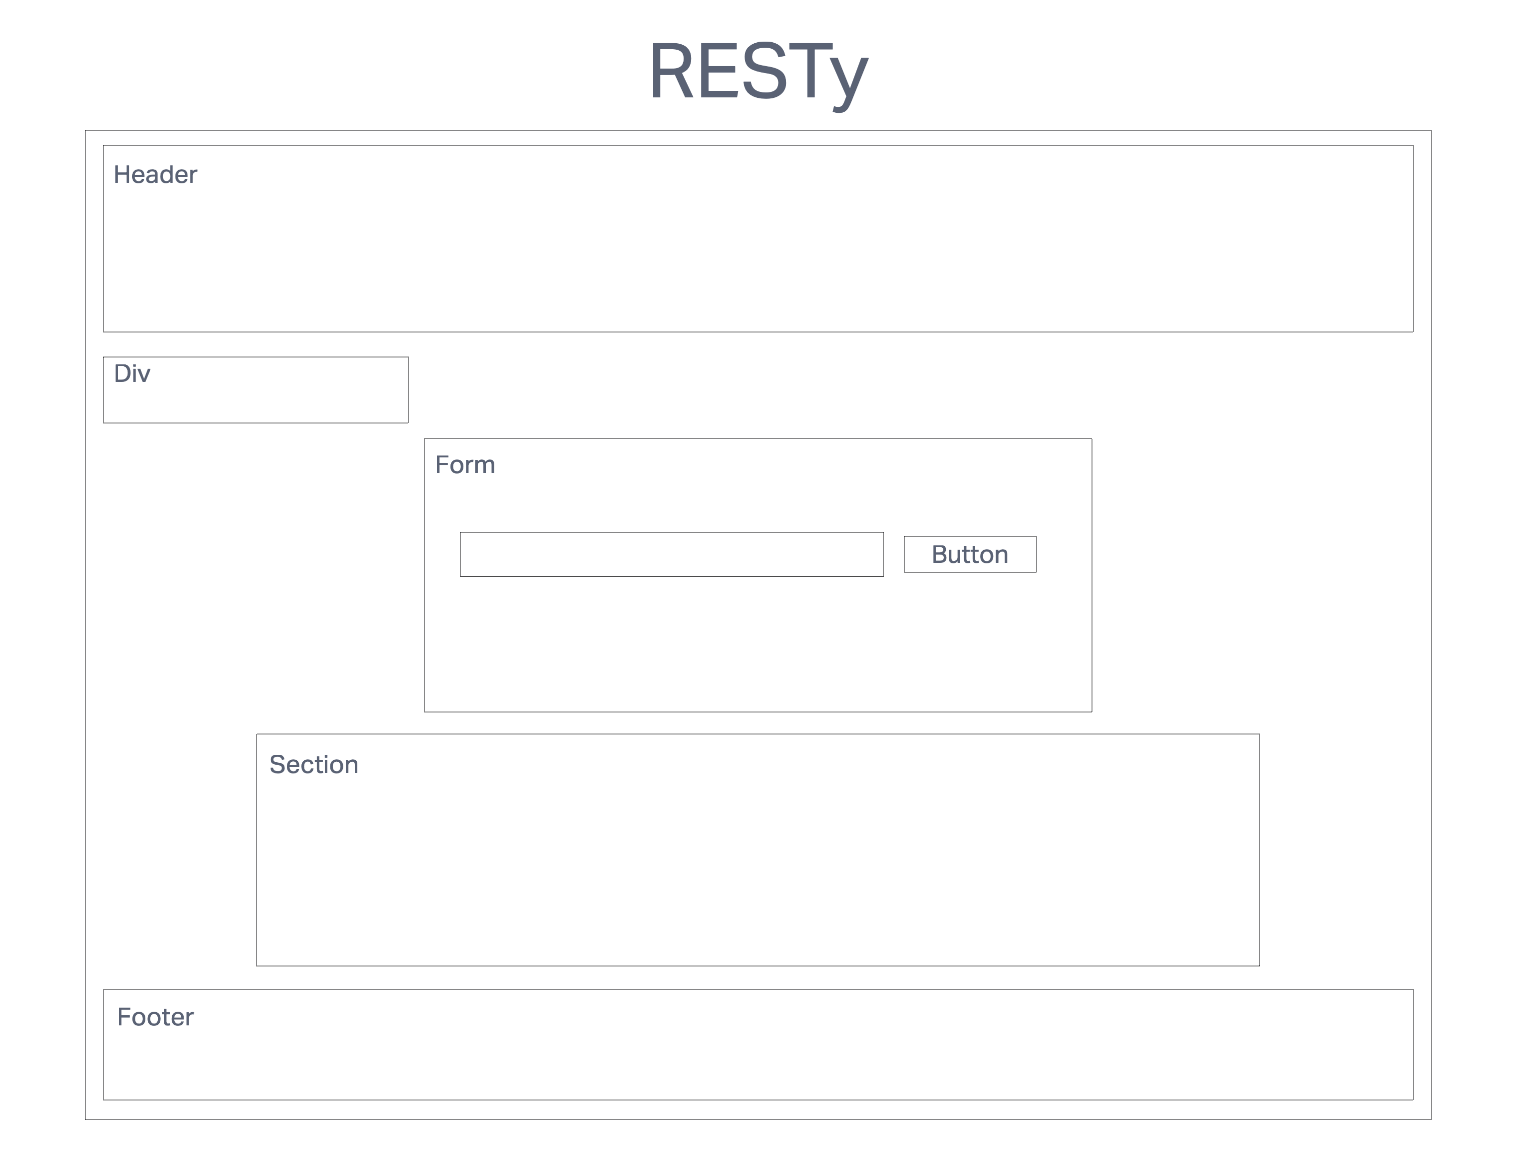
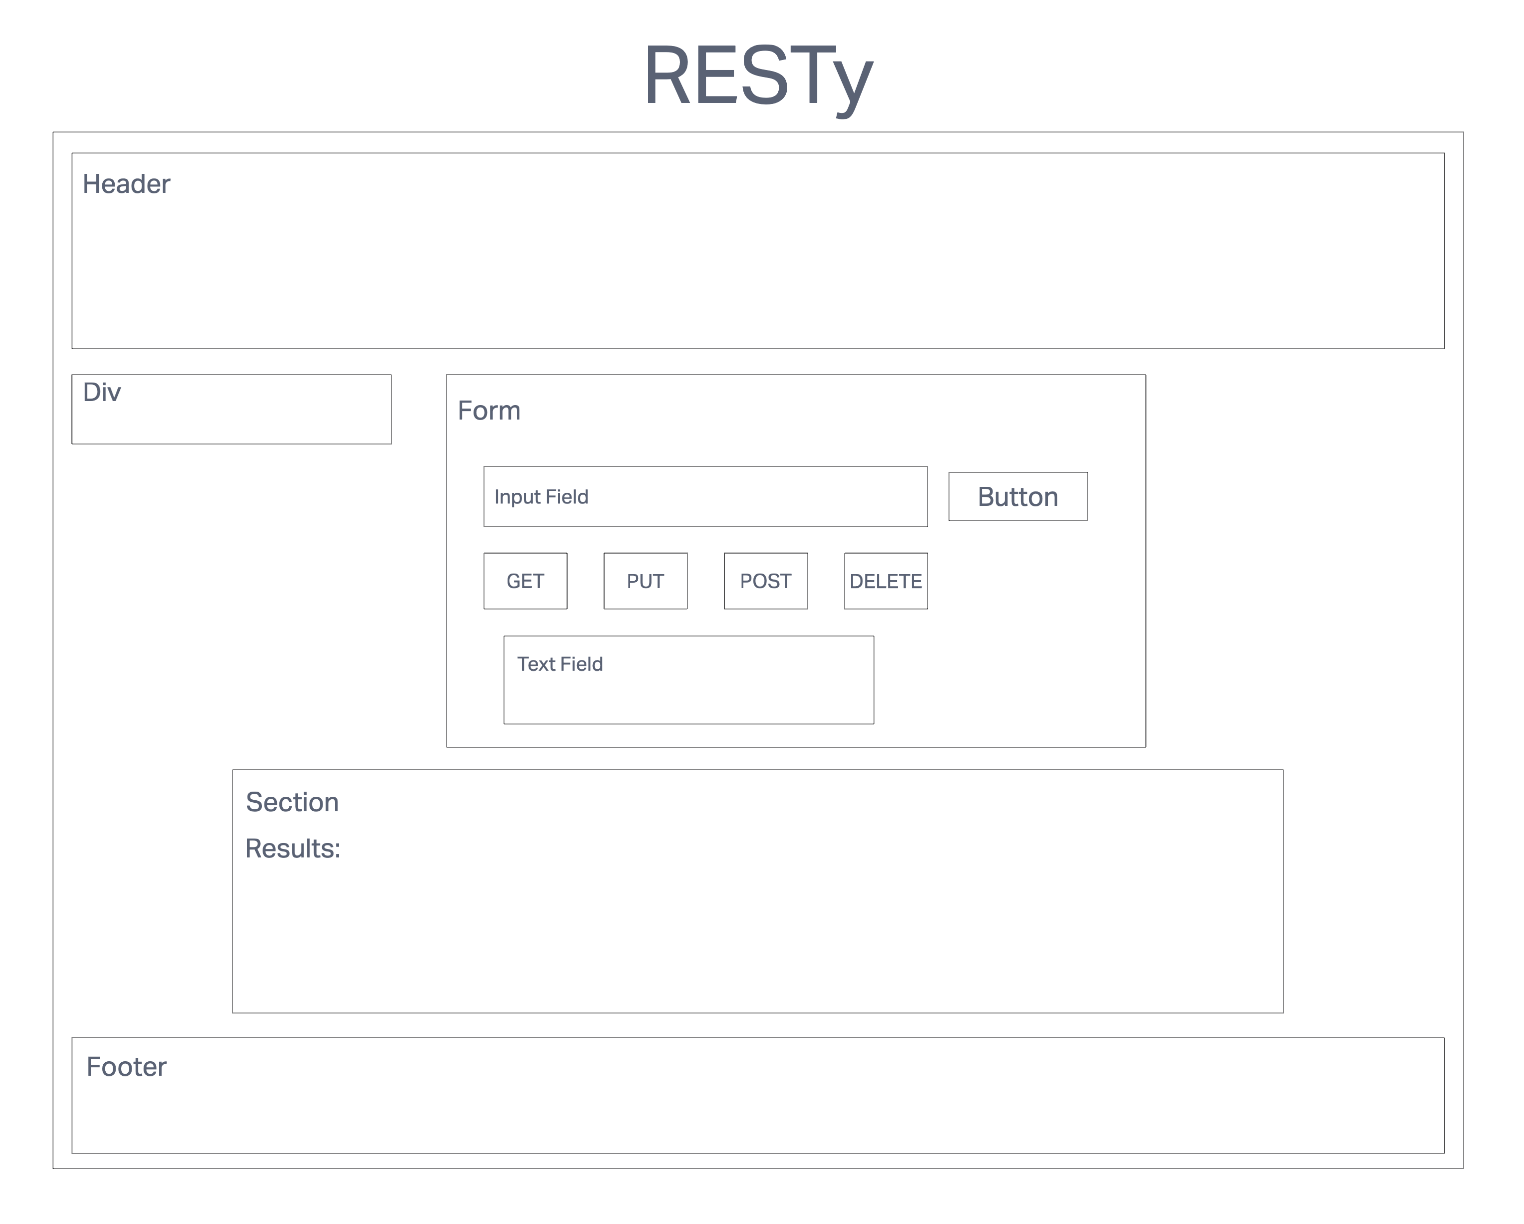
completed lab 18

diff --git a/src/app.js b/src/app.js
@@ -1,5 +1,6 @@
-import React, { useState } from 'react';
-
+import React, { useState, useEffect } from 'react';
+import axios from 'axios';
+//const axios = () => null;
 import './app.scss';
 
 // Let's talk about using index.js and some other name in the component folder
@@ -18,22 +19,31 @@ const App = () => {
     const data = {
       method: requestParams.method,
       url: requestParams.url,
-      count: 2,
-      results: [
-        {name: 'fake thing 1', url: 'http://fakethings.com/1'},
-        {name: 'fake thing 2', url: 'http://fakethings.com/2'},
-      ],
+      body: requestParams.body,
     };
     console.log(data);
     setRequestParams(requestParams);
     setData(data);
-  }
+  };
+
+  useEffect(() => {
+    console.log('something happened when mounted!');
+    async function apiCall() {
+      let results = await axios.get(requestParams.url);
+      console.log(results);
+      setData(results.data.results)
+    }
+    if(requestParams.url){
+      apiCall();
+    }
+  }, [requestParams]);
 
   return (
     <React.Fragment>
       <Header />
-      <div>Request Method: {requestParams.method}</div>
       <div>URL: {requestParams.url}</div>
+      <div>Request Method: {requestParams.method}</div>
+      <div>Request Body: {requestParams.body}</div>
       <Form handleApiCall={callApi} />
       <Results data={data} />
       <Footer />

diff --git a/src/components/form/index.js b/src/components/form/index.js
@@ -6,12 +6,14 @@ function Form(props) {
   const [isActive, setIsActive] = useState(false);
   const [method, setMethod] = useState('GET');
   const [url, setUrl] = useState('');
+  const [body, setBody] = useState('');
 
   let handleSubmit = e => {
     e.preventDefault();
     const formData = {
       method: method,
       url: url,
+      body: body,
     };
     console.log(formData);
     props.handleApiCall(formData);
@@ -19,6 +21,10 @@ function Form(props) {
 
   const handleChange = (event) => {
     setUrl(event.target.value);
+  }
+
+  const handleTextArea = (event) => {
+    setBody(event.target.value);
   }
 
   const handleShow = (event, method) => {
@@ -35,7 +41,7 @@ function Form(props) {
 
   return (
     <>
-      <form onSubmit={handleSubmit}>
+      <form data-testid="form" onSubmit={handleSubmit}>
         <label >
           <span>URL: </span>
           <input name='url' data-testid="url-input" type='text' onChange={handleChange}/>
@@ -49,7 +55,7 @@ function Form(props) {
         </label>
         {isShown && (
           <div>
-            <textarea id="textarea" />
+            <textarea id="textarea" data-testid="body-input" onChange={handleTextArea}/>
           </div>
         )}
       </form>

diff --git a/src/components/form/form.test.js b/src/components/form/form.test.js
@@ -11,7 +11,7 @@ describe('Form Component', () => {
     expect(span).toBeInTheDocument();
   });
 
-  it('can provide buttons for specific API call methods', () => {
+  it('can provide buttons for specific API call methods, sends API information', () => {
     const spy = jest.fn();
     render(<Form handleApiCall={spy} />);
 
@@ -25,12 +25,17 @@ describe('Form Component', () => {
     expect(getButton).toBeInTheDocument();
 
     const goButton = screen.getByText('GO!');
+    const putTestButton = screen.getByText('PUT');
+    fireEvent.click(putTestButton);
     const input = screen.getByTestId("url-input");
+    const bodyInput = screen.getByTestId("body-input");
     const testUrl = 'https://foo.bar';
+    const testBody = 'Test body';
     fireEvent.change(input, { target: { value: testUrl } });
+    fireEvent.change(bodyInput, { target: { value: testBody } });
     fireEvent.click(getButton);
     fireEvent.click(goButton);
 
-    expect(spy).toBeCalledWith({ method: 'GET', url: testUrl });
+    expect(spy).toBeCalledWith({ method: 'GET', url: testUrl, body: testBody });
   })
 });

diff --git a/src/components/results/index.js b/src/components/results/index.js
@@ -1,11 +1,15 @@
 import './results.scss';
+import JSONPretty from 'react-json-pretty';
+import JSONPrettyMon from 'react-json-pretty/themes/monikai.css';
 
 function Results(props) {
-
   return (
-    <section>
-      <pre>RESPONSE: {props.data ? JSON.stringify(props.data, undefined, 2) : null}</pre>
-    </section>
+    <>
+      <h3>Reponse: </h3>
+      <section data-testid='results'>
+        <JSONPretty id="json-pretty" data={props.data ? JSON.stringify(props.data, undefined, 2) : null} theme={JSONPrettyMon}></JSONPretty>
+      </section>
+    </>
   );
 }
 

diff --git a/src/app.test.js b/src/app.test.js
@@ -1,0 +1,20 @@
+import '@testing-library/jest-dom';
+import { render, screen } from '@testing-library/react';
+
+import App from './app';
+
+describe('App Component', () => {
+  it('loads form', () => {
+    render(<App />);
+
+    const form = screen.getByTestId("form");
+    expect(form).toBeInTheDocument();
+  });
+  it('loads results', () => {
+    render(<App />);
+
+    const results = screen.getByTestId("results");
+    expect(results).toBeInTheDocument();
+  });
+
+});

diff --git a/src/components/results/results.test.js b/src/components/results/results.test.js
@@ -1,0 +1,13 @@
+import '@testing-library/jest-dom';
+import { render, screen } from '@testing-library/react';
+
+import Results from './index';
+
+describe('Results Component', () => {
+  it('loads API results', () => {
+    render(<Results data={{}} />);
+
+    const results = screen.getByTestId("results");
+    expect(results).toBeInTheDocument();
+  });
+});

diff --git a/src/components/footer/footer.test.js b/src/components/footer/footer.test.js
@@ -1,0 +1,13 @@
+import '@testing-library/jest-dom';
+import { render, screen } from '@testing-library/react';
+
+import Footer from './index';
+
+describe('Footer Component', () => {
+  it('loads footer content', () => {
+    render(<Footer />);
+
+    const footer = screen.getByTestId("footer");
+    expect(footer).toBeInTheDocument();
+  });
+});

diff --git a/src/components/header/header.test.js b/src/components/header/header.test.js
@@ -1,7 +1,7 @@
 import '@testing-library/jest-dom';
 import { render, screen } from '@testing-library/react';
 
-import Header from '../../app';
+import Header from './index';
 
 describe('Welcome Component', () => {
   it('loads and shows expected display', () => {

diff --git a/src/components/footer/index.js b/src/components/footer/index.js
@@ -1,7 +1,7 @@
 import './footer.scss';
 
 function Footer(){
-  return <footer>&copy; 2018</footer>;
+  return <footer data-testid='footer'>&copy; 2018</footer>;
 }
 
 export default Footer;

diff --git a/README.md b/README.md
@@ -1,16 +1,59 @@
-# RESTy
+# LAB- Class 26-28
 
-A browser based API testing tool
+## Project: RESTy
 
-## Business Requirements
+## Author: KC Hofstetter
+
+### Problem Domain
 
 Our application will be an API testing tool that can be run in any browser, allowing a user to easily interact with APIs in a familiar interface.
 
-## UML
+### Business Requirements
+
+Our application will be an API testing tool that can be run in any browser, allowing a user to easily interact with APIs in a familiar interface.
+
+The core requirements and functionality are as follows:
+
+- Simple, intuitive user interface
+  - A form where a user:
+    - Enters a REST API Endpoint (URI)
+    - Selects the REST Method to use (get, post, put, delete)
+    - For put and post, allow the user to enter JSON to be used as the body for the request
+    - A button to initiate the request
+
+### Technical Requirements
+
+- The application will be created with the following overall architecture and methodologies
+
+  - React
+  - ES6 Classes
+  - Shared Component State
+  - Superagent or Axios for performing API Requests
+  - SASS for styling
+  - Test Driven Development, using Jest
+  - Tests will be runnable locally
+
+### Links and Resources
+
+- ci/cd (GitHub Actions)
+- back-end server url (when applicable)
+- front-end application (when applicable)
+
+### Setup
+
+- How to initialize/run your application (where applicable)
+  - npm start
+
+### Tests
+
+- How do you run tests?
+  - npm test
+
+### UML
 
 ![UML](./img/UML.png)
 
-## Deloyed Site
+### Deloyed Site
 
 Deployed with Netlify
 
